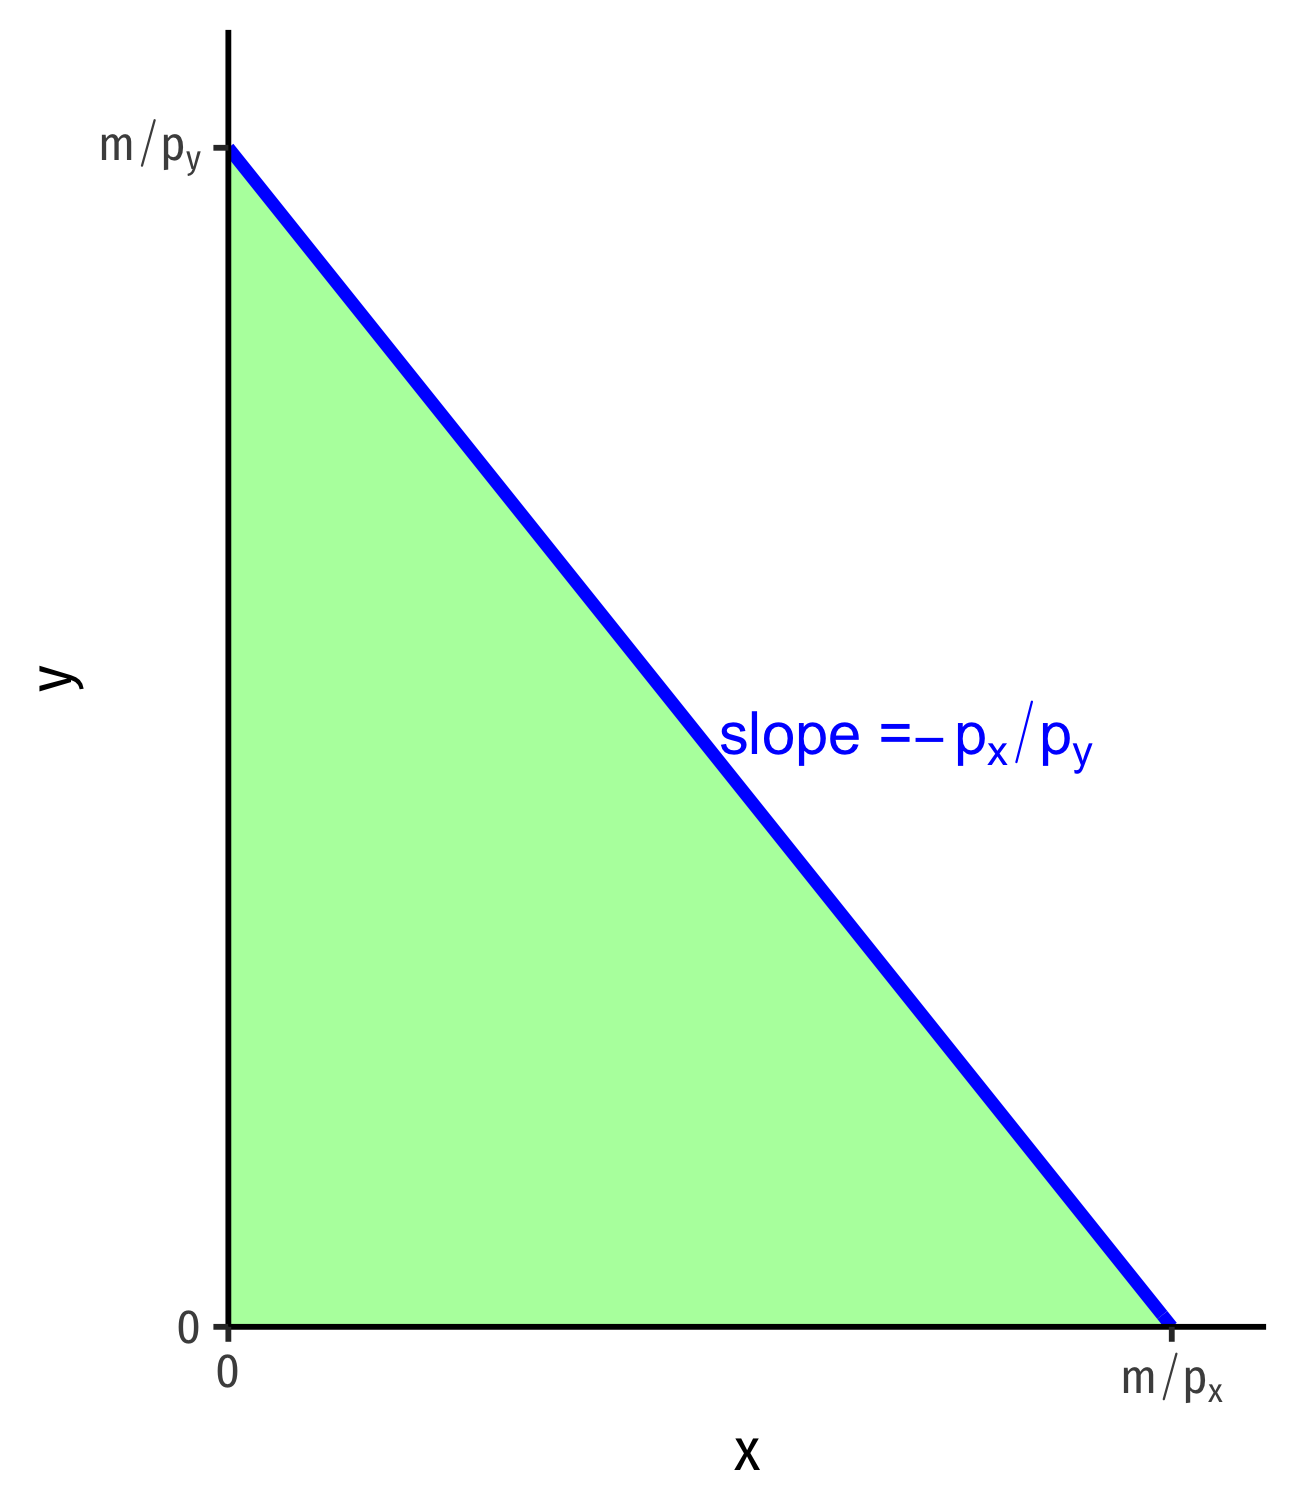
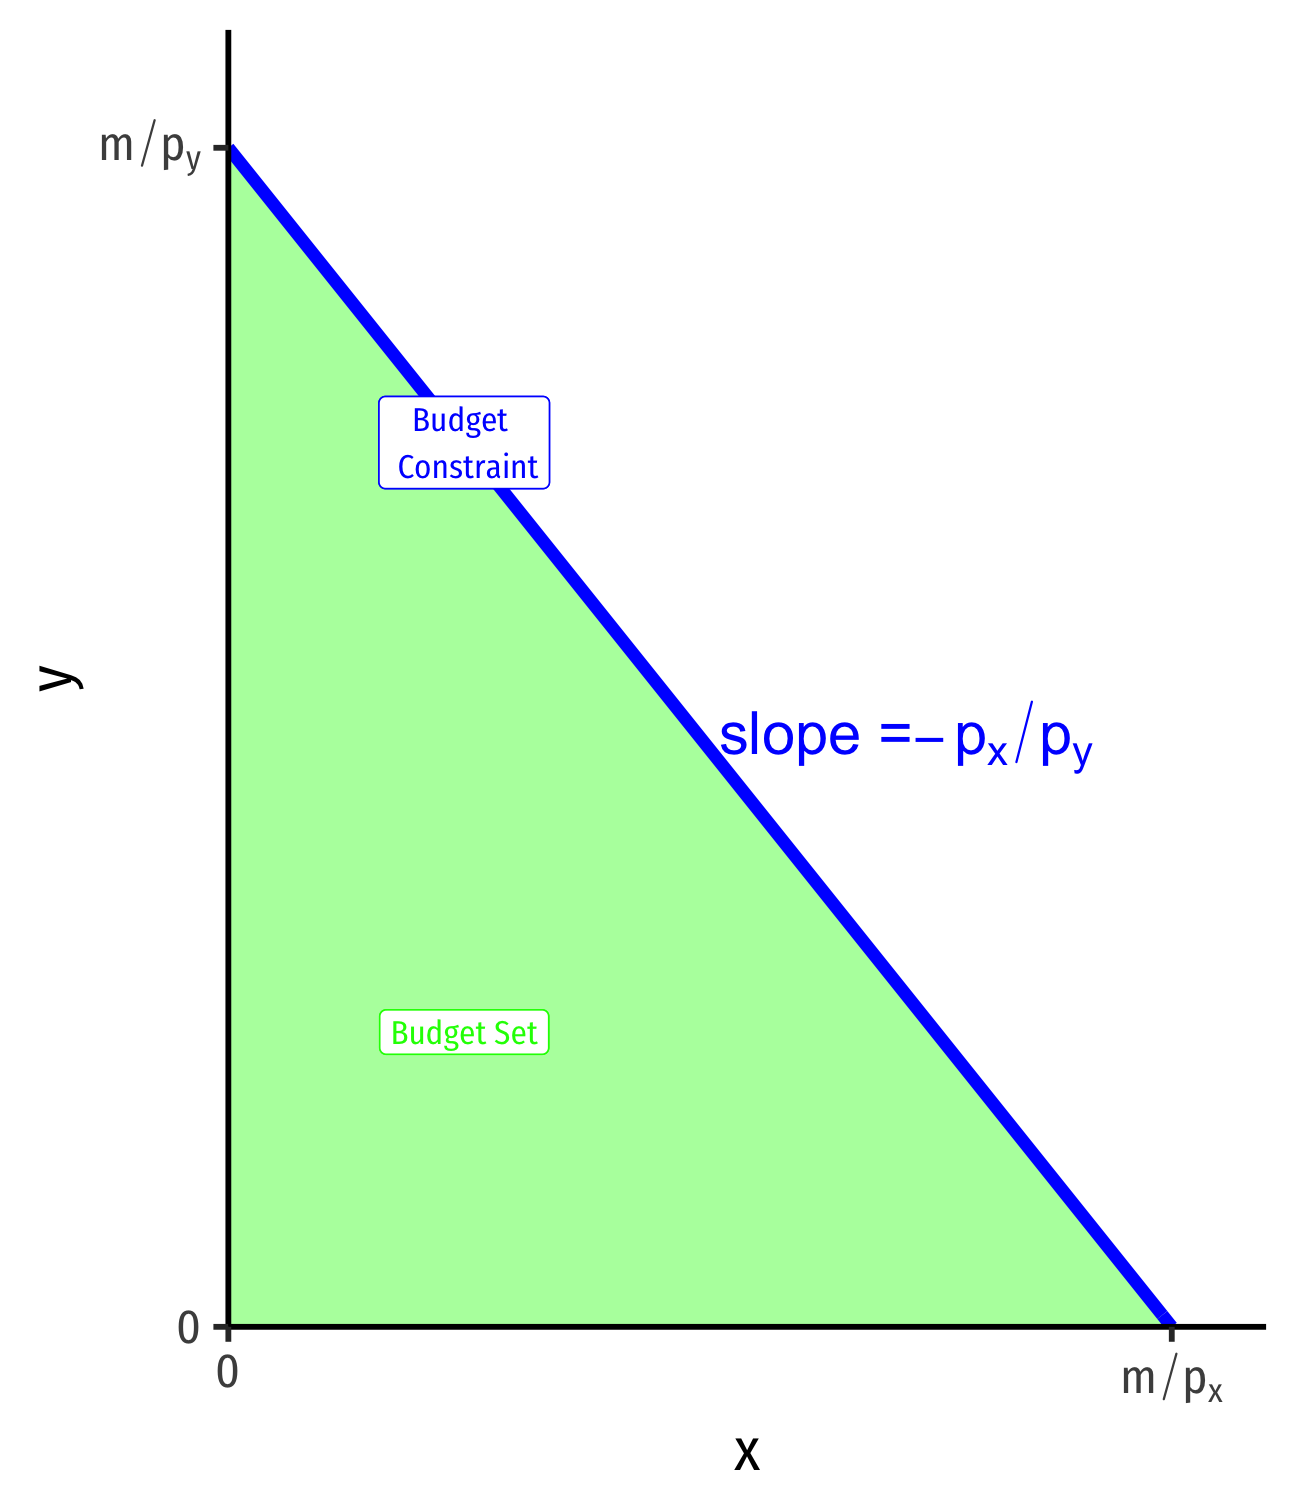
Tweaks to slides 1.3

Changed region(s): [[0.2778, 0.2487, 0.4321, 0.3419], [0.2778, 0.6528, 0.4321, 0.7149]]

diff --git a/static/slides/1.3-slides.html b/static/slides/1.3-slides.html
@@ -22,6 +22,18 @@ class: center, middle, inverse, title-slide
 
 
 
+class: inverse
+
+# Outline
+
+### [Rational Choice Theory](#5)
+### [Constrained Optimization](#8)
+### [Consumer Behavior: Basic Framework](#23)
+### [The Budget Constraint](#27)
+### [Changes in Parameters](#42)
+
+---
+
 # The Two Major Models of Economics as a "Science"
 
 .pull-left[
@@ -80,7 +92,7 @@ class: inverse, center, middle
 .pull-right[
 
 .center[
-![:scale 100%](../groceryaisle.jpg)
+![:scale 100%](../images/groceryaisle.jpg)
 ]
 ]
 
@@ -143,8 +155,6 @@ class: inverse, center, middle
 &gt; consumer, business firm, politician, judge, bureaucrat, voter, dictator, pirate, drug cartel, drug addict, parent, child, etc
 
 - .hi-purple[Key economic skill: recognizing how to apply the model to a situation]
-
-- Luckily, all models have a common setup...
 
 ]
 
@@ -533,6 +543,24 @@ class: inverse, center, middle
 
 `$$p_x x+p_y y \leq m$$`
 
+]
+
+.pull-right[
+.center[
+![:scale 100%](../images/groceryaisle.jpg)
+]
+]
+
+---
+
+# The Budget Set &amp; the Budget Constraint
+
+.pull-left[
+
+- The set of *all* affordable bundles that a consumer can choose is called the .hi[budget set] or .hi[choice set]
+
+`$$p_x x+p_y y \leq m$$`
+
 - The .hi[budget *constraint*] is the set of all bundles that spend *all income* `\(m\)`:&lt;sup&gt;.hi[†]&lt;/sup&gt;
 
 `$$p_x x+p_y y = m$$`
@@ -545,7 +573,7 @@ class: inverse, center, middle
 ]
 ]
 
-.footnote[&lt;sup&gt;.hi[†]&lt;/sup&gt; Note the difference (the in/equality), budget *constraint* is the subset of the *budget set* that *spends all income*.]
+.footnote[&lt;sup&gt;.hi[†]&lt;/sup&gt; Note the difference (the in/equality), budget *constraint* is the **subset** of the *budget set* that *spends all income*.]
 
 ---
 
